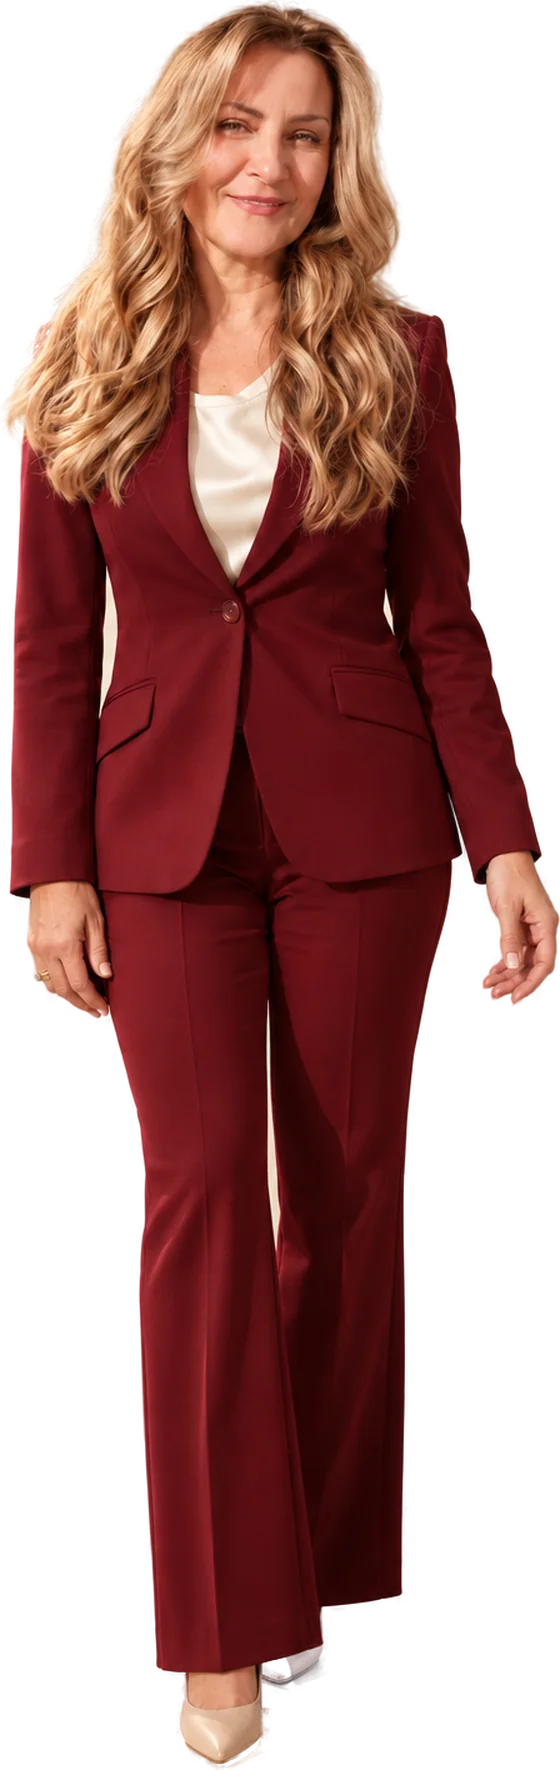
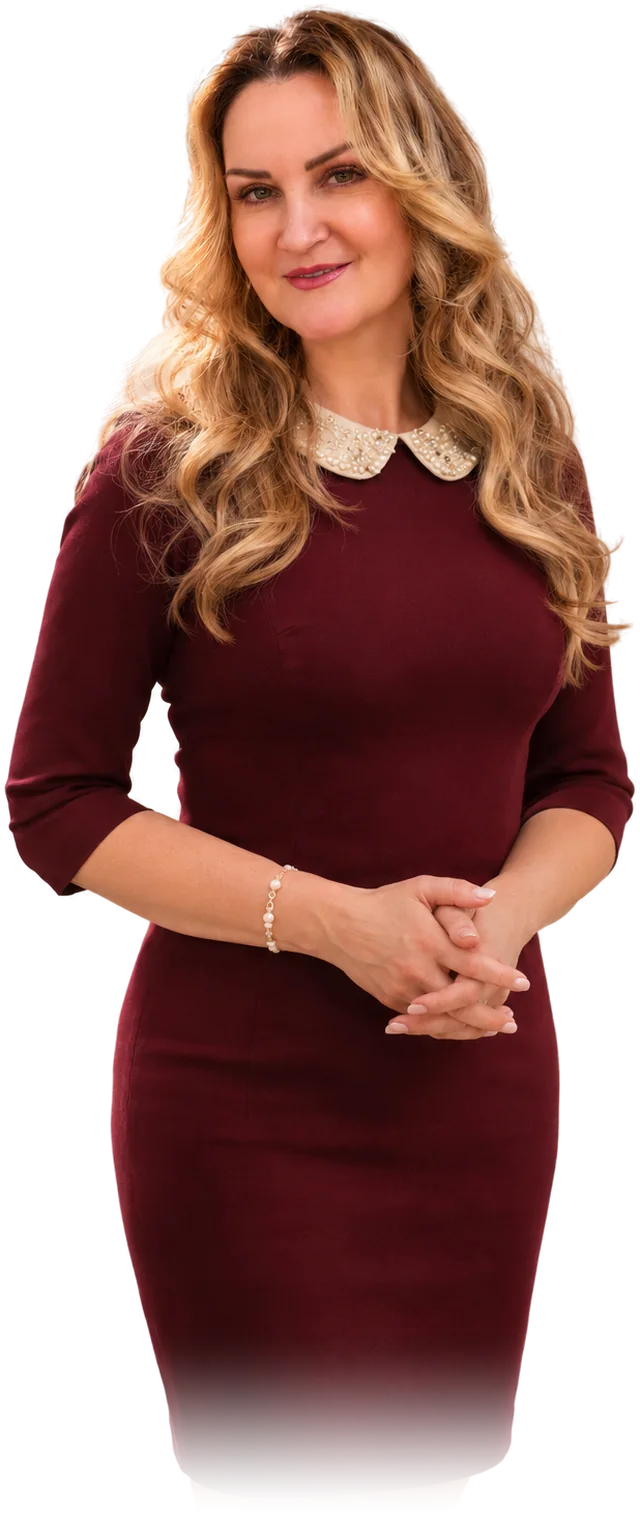
Обновление 31.10 20:32 МСК

diff --git a/style.css b/style.css
@@ -2073,7 +2073,7 @@ h2 .хвост-акцент { display: block; font-weight: 600; font-size: .6em;
 @media (max-width: 899px) {
   #экран-08 .раскладка { grid-template-columns: 1fr; grid-template-areas: "шапка" "портрет" "тело"; grid-template-rows: auto; }
   #экран-08 .портрет { width: 100%; margin-inline: auto; }
-  #экран-08 .портрет img { width: min(72%, 300px); height: auto; aspect-ratio: 560 / 900; object-fit: cover; object-position: top; -webkit-mask-image: linear-gradient(to bottom, var(--цвет-текст) 82%, transparent 100%); mask-image: linear-gradient(to bottom, var(--цвет-текст) 82%, transparent 100%); filter: none; }
+  #экран-08 .портрет img { width: min(72%, 300px); height: auto; aspect-ratio: 640 / 1000; object-fit: cover; object-position: top; -webkit-mask-image: linear-gradient(to bottom, var(--цвет-текст) 82%, transparent 100%); mask-image: linear-gradient(to bottom, var(--цвет-текст) 82%, transparent 100%); filter: none; }
         #экран-08 .штамп { grid-template-columns: 1fr; border-radius: var(--радиус-карточки); padding: 10px 16px; }
   #экран-08 .кнопка-место { align-items: stretch; }
 }

diff --git a/index.html b/index.html
@@ -563,7 +563,7 @@ document.addEventListener("DOMContentLoaded", function () {
       <h2>Анна Рейн придумывает каждый вкус сама</h2>
     </div>
     <figure class="портрет">
-      <img loading="lazy" src="img/s8-anna-rost.webp" alt="Анна Рейн в полный рост в винном костюме" width="560" height="1770">
+      <img loading="lazy" src="img/s8-anna-rost.webp" alt="Анна Рейн в вишнёвом платье с жемчужным воротничком" width="640" height="1520">
     </figure>
     <div class="тело">
       <p class="рассказ">Всё началось с домашнего сыроделия и первой горгонзолы. Анна изучала сыр, работала экскурсоводом в Музее истории шоколада и какао, а затем соединила эти два мира. Так появился первый ТрюфЧиз, а позже — сырные пасты и подарочные наборы.</p>
